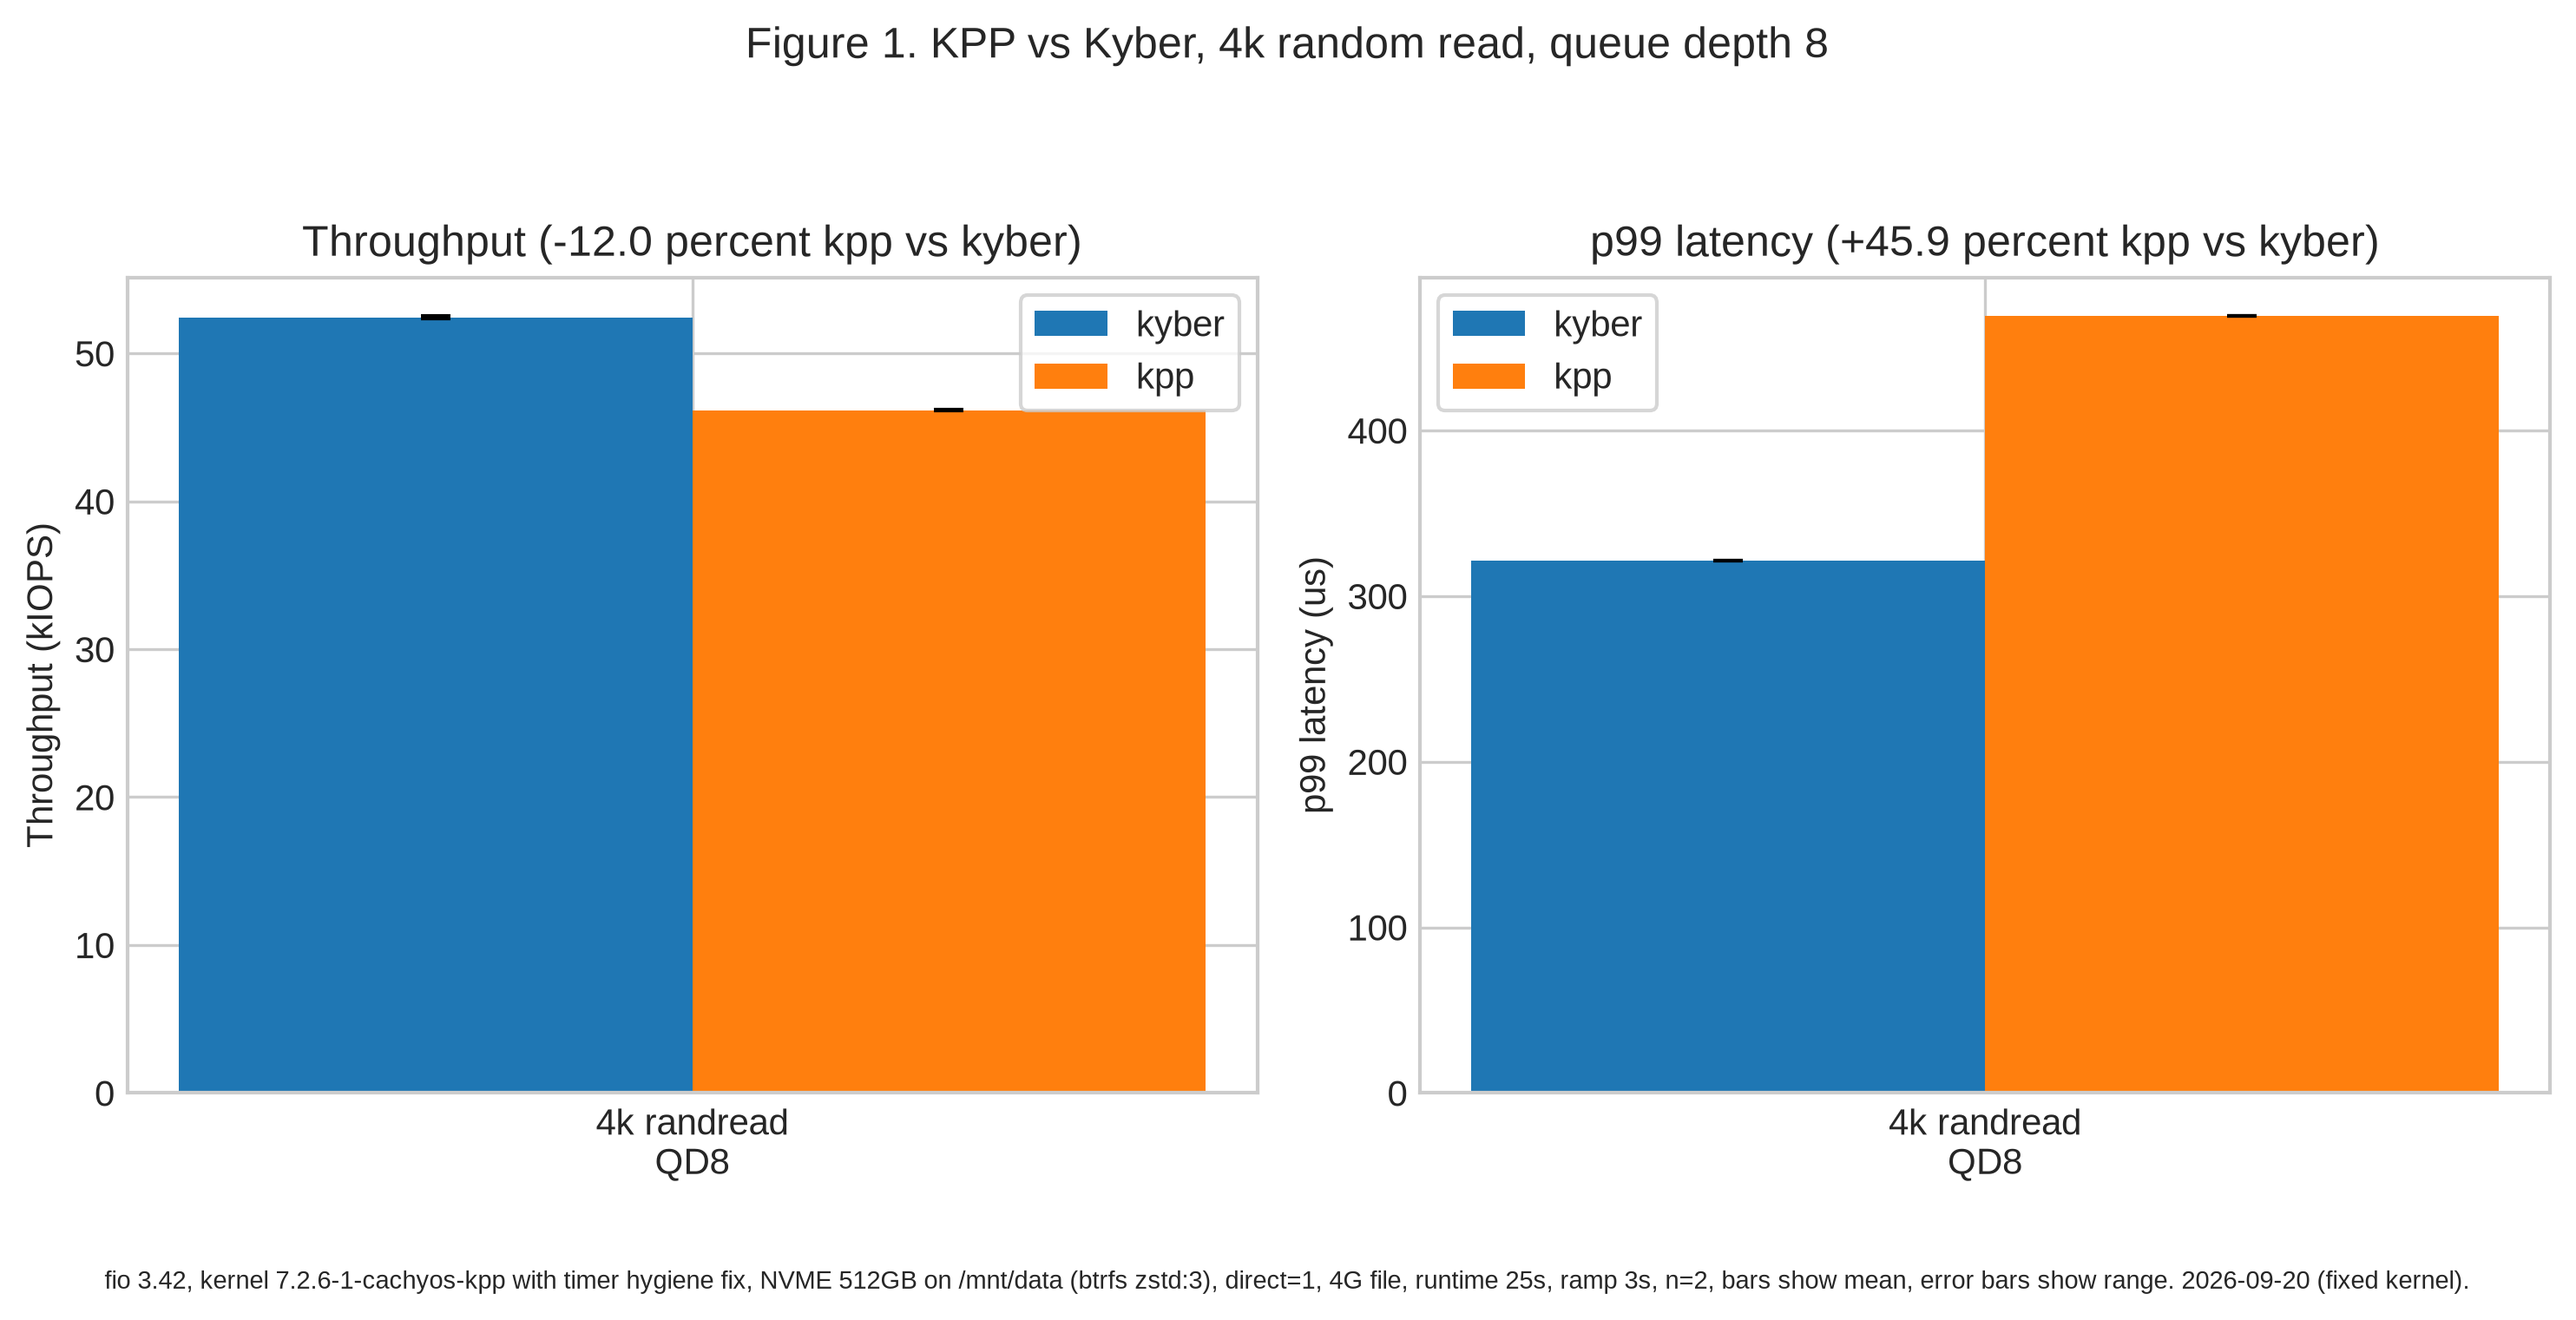
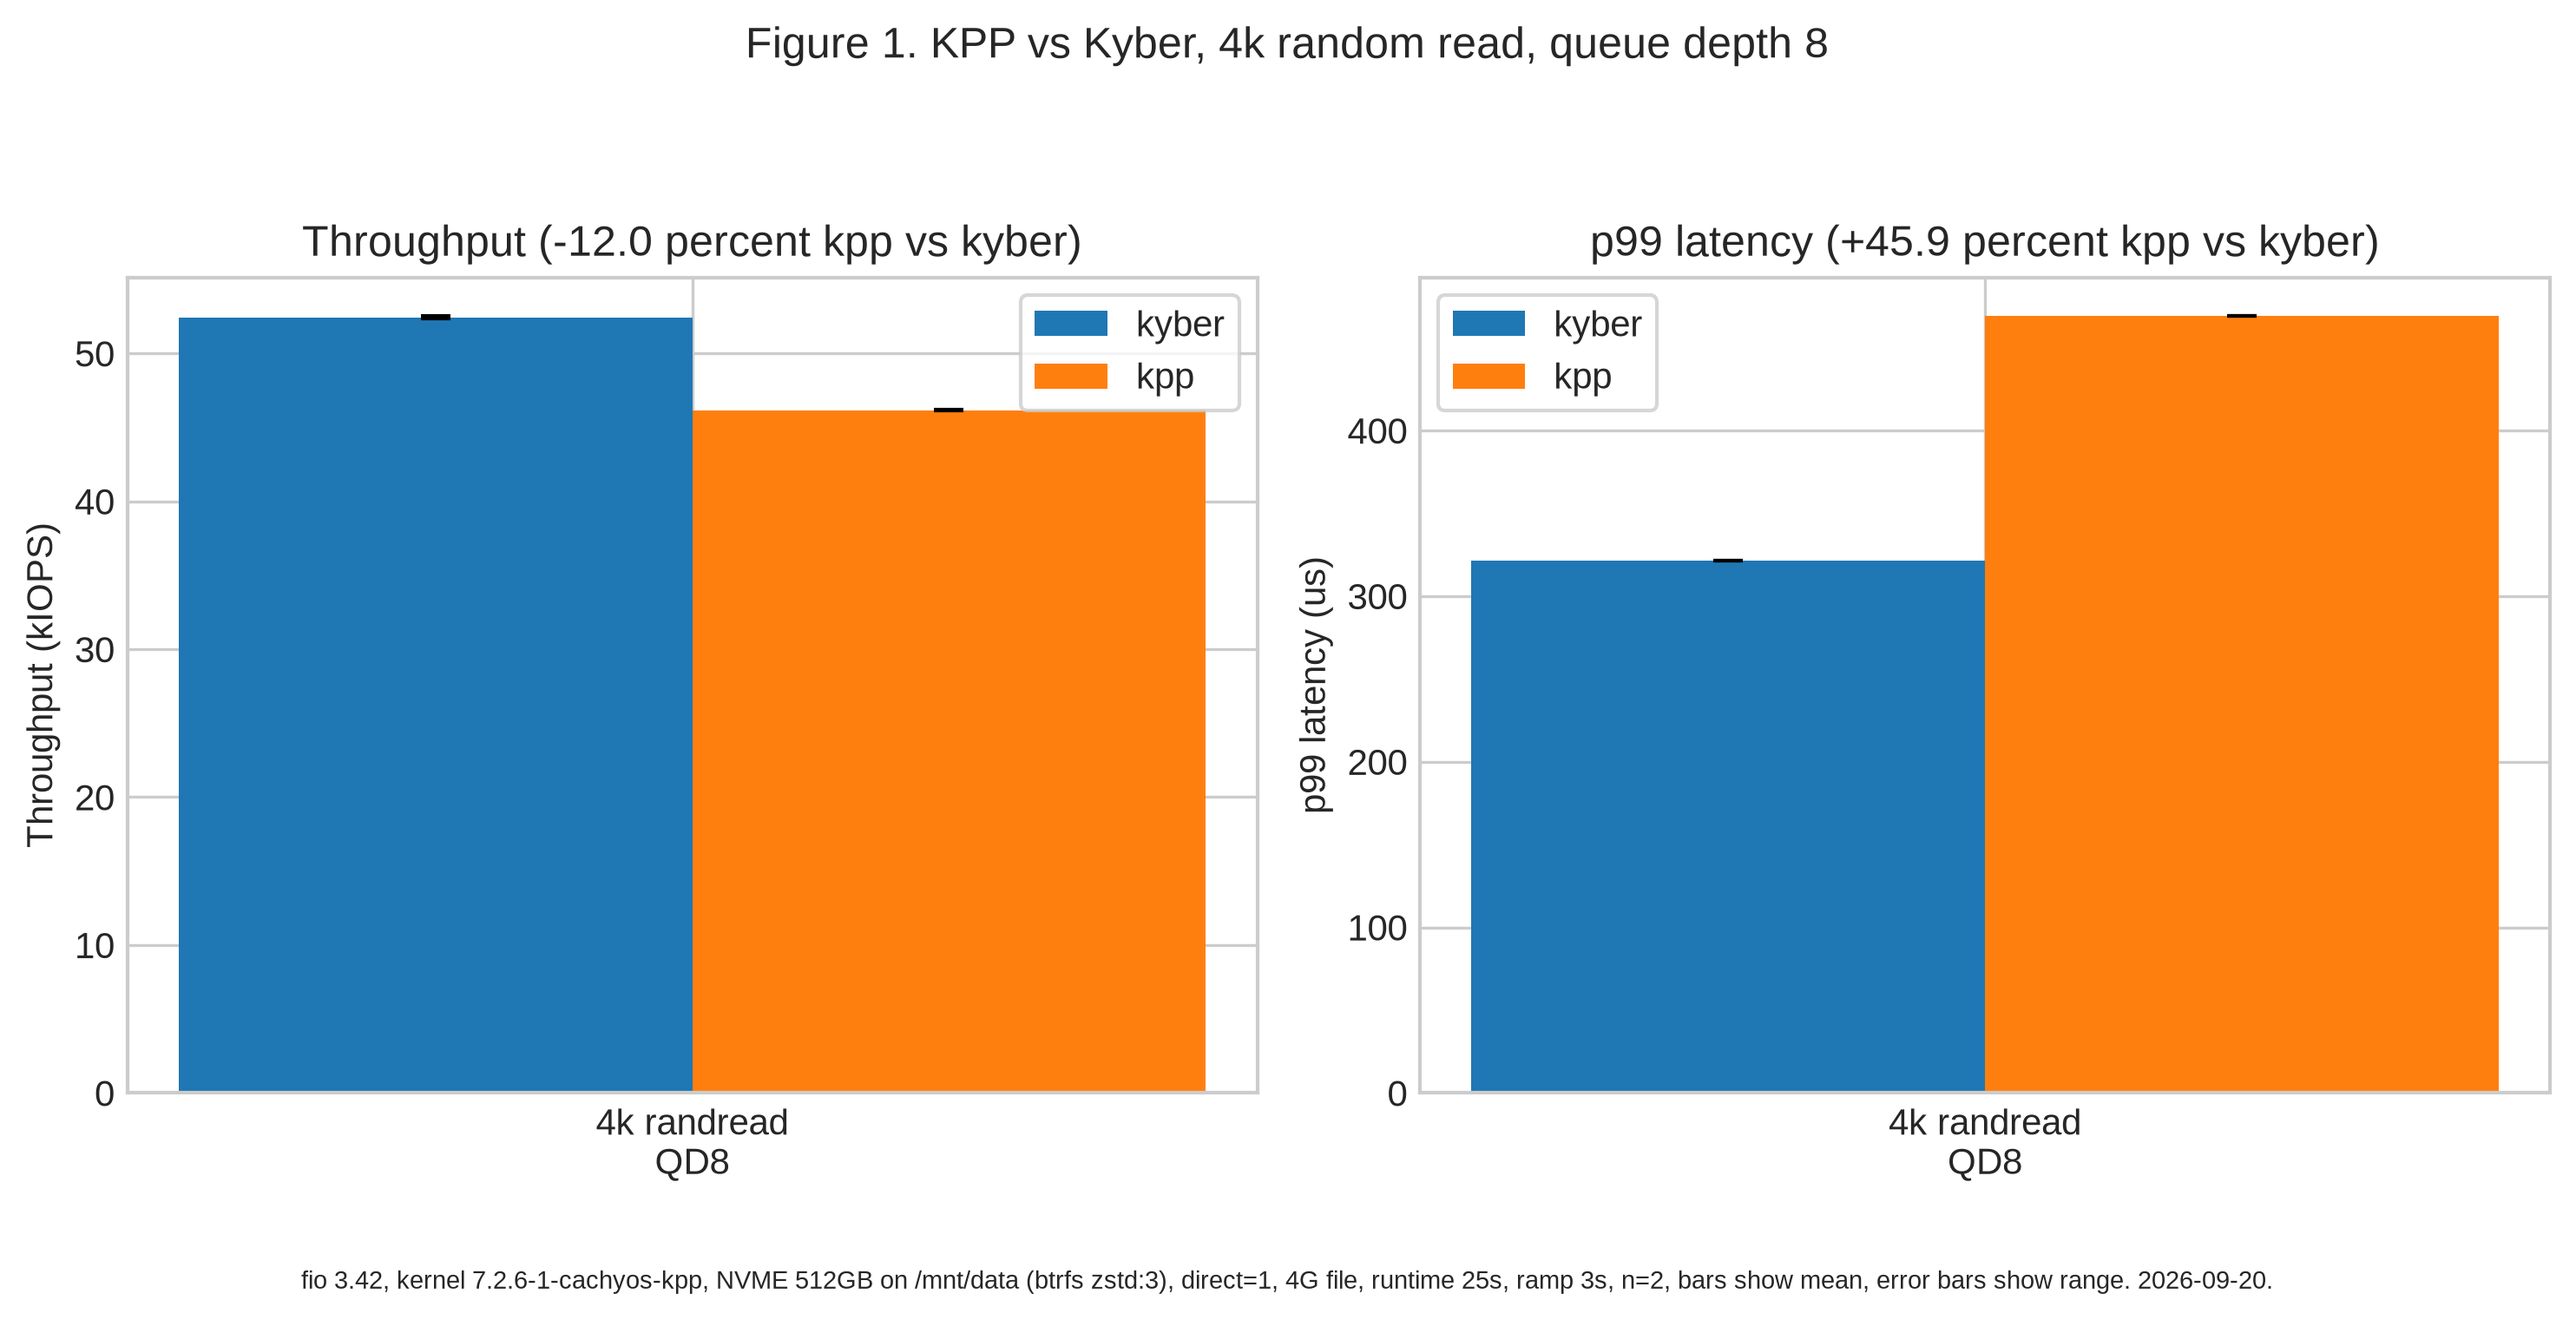
Drop implementation history from figure footnotes

Changed region(s): [[0.062, 0.9579, 0.9609, 0.9888]]

diff --git a/benchmarks/plot_fig3.py b/benchmarks/plot_fig3.py
@@ -58,11 +58,11 @@ fig.suptitle("Figure 3. All schedulers, 4k random read, QD8, prepped file")
 fig.text(
     0.5,
     0.01,
-    "fio 3.42, kernel 7.2.6-1-cachyos-kpp with timer hygiene fix, NVME 512GB on /mnt/data "
+    "fio 3.42, kernel 7.2.6-1-cachyos-kpp, NVME 512GB on /mnt/data "
     "(btrfs zstd:3), direct=1, prepped 4G file (seq write once, then reads), "
     "runtime 25s, ramp 3s, n=2, bars mean, error bars range. adios and none "
     "each lost one rep to late session instability, so their means underread. "
-    "kyber and kpp were run back to back on the same file state. 2026-09-20 (fixed kernel).",
+    "kyber and kpp were run back to back on the same file state. 2026-09-20.",
     ha="center",
     fontsize=7,
 )

diff --git a/benchmarks/plot_fig1.py b/benchmarks/plot_fig1.py
@@ -59,9 +59,9 @@ fig.suptitle("Figure 1. KPP vs Kyber, 4k random read, queue depth 8")
 fig.text(
     0.5,
     0.01,
-    "fio 3.42, kernel 7.2.6-1-cachyos-kpp with timer hygiene fix, NVME 512GB on /mnt/data "
+    "fio 3.42, kernel 7.2.6-1-cachyos-kpp, NVME 512GB on /mnt/data "
     "(btrfs zstd:3), direct=1, 4G file, runtime 25s, ramp 3s, n=2, "
-    "bars show mean, error bars show range. 2026-09-20 (fixed kernel).",
+    "bars show mean, error bars show range. 2026-09-20.",
     ha="center",
     fontsize=7,
 )

diff --git a/benchmarks/plot_fig4.py b/benchmarks/plot_fig4.py
@@ -52,7 +52,7 @@ fig.text(
     "kpp_throttled, 9 kpp_adjust all on WRITE and DISCARD, none cutting "
     "READ depth, so no token throttle explains any gap. kpp mean 37.4k "
     "stable across the window. kyber swings 70.4k to 0.35k. fio 3.42, "
-    "kernel 7.2.6-1-cachyos-kpp with timer hygiene fix, NVME 512GB. "
+    "kernel 7.2.6-1-cachyos-kpp, NVME 512GB. "
     "2026-09-20.",
     ha="center",
     fontsize=7,

diff --git a/benchmarks/plot_fig2.py b/benchmarks/plot_fig2.py
@@ -7,7 +7,8 @@ import matplotlib
 matplotlib.use("Agg")
 import matplotlib.pyplot as plt
 
-RAW = pathlib.Path(__file__).parent / "results" / "raw"
+_here = pathlib.Path(__file__).parent
+RAW = _here / "raw" if (_here / "raw").is_dir() else _here / "results" / "raw"
 OUT = pathlib.Path(__file__).parent / "charts" / "fig2_patterns_kyber_vs_kpp.png"
 
 PATTERNS = [
